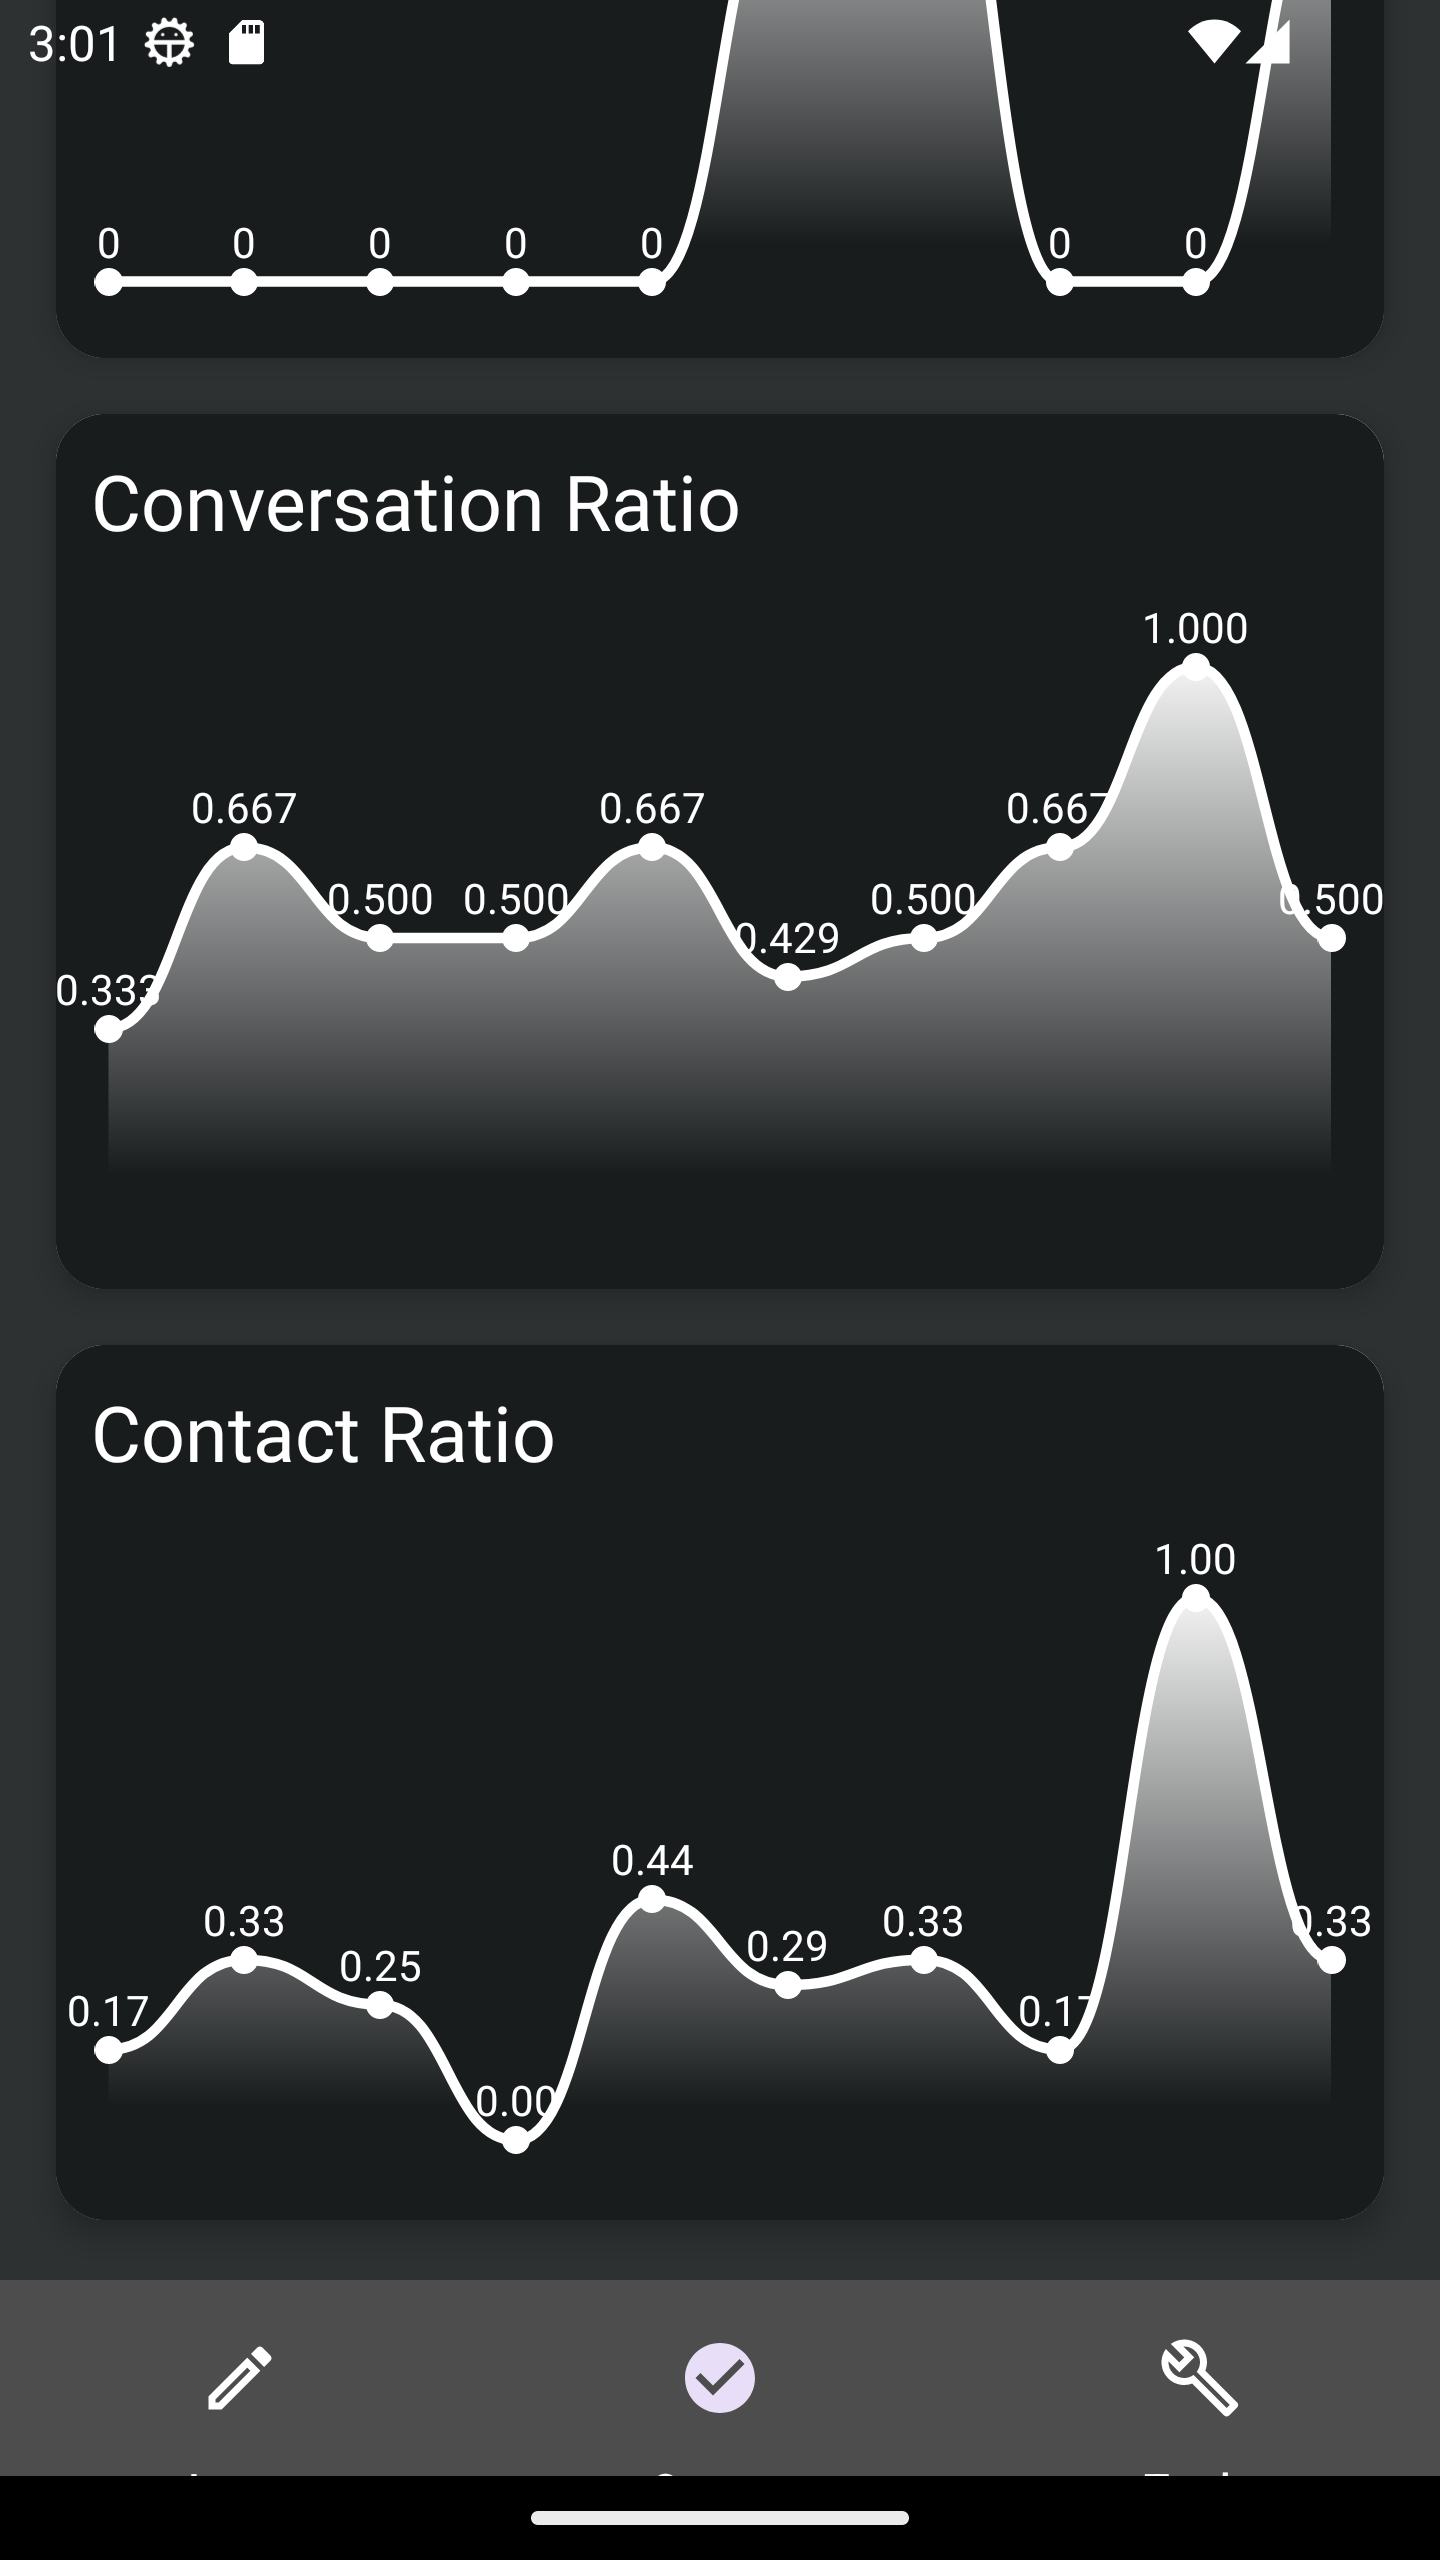
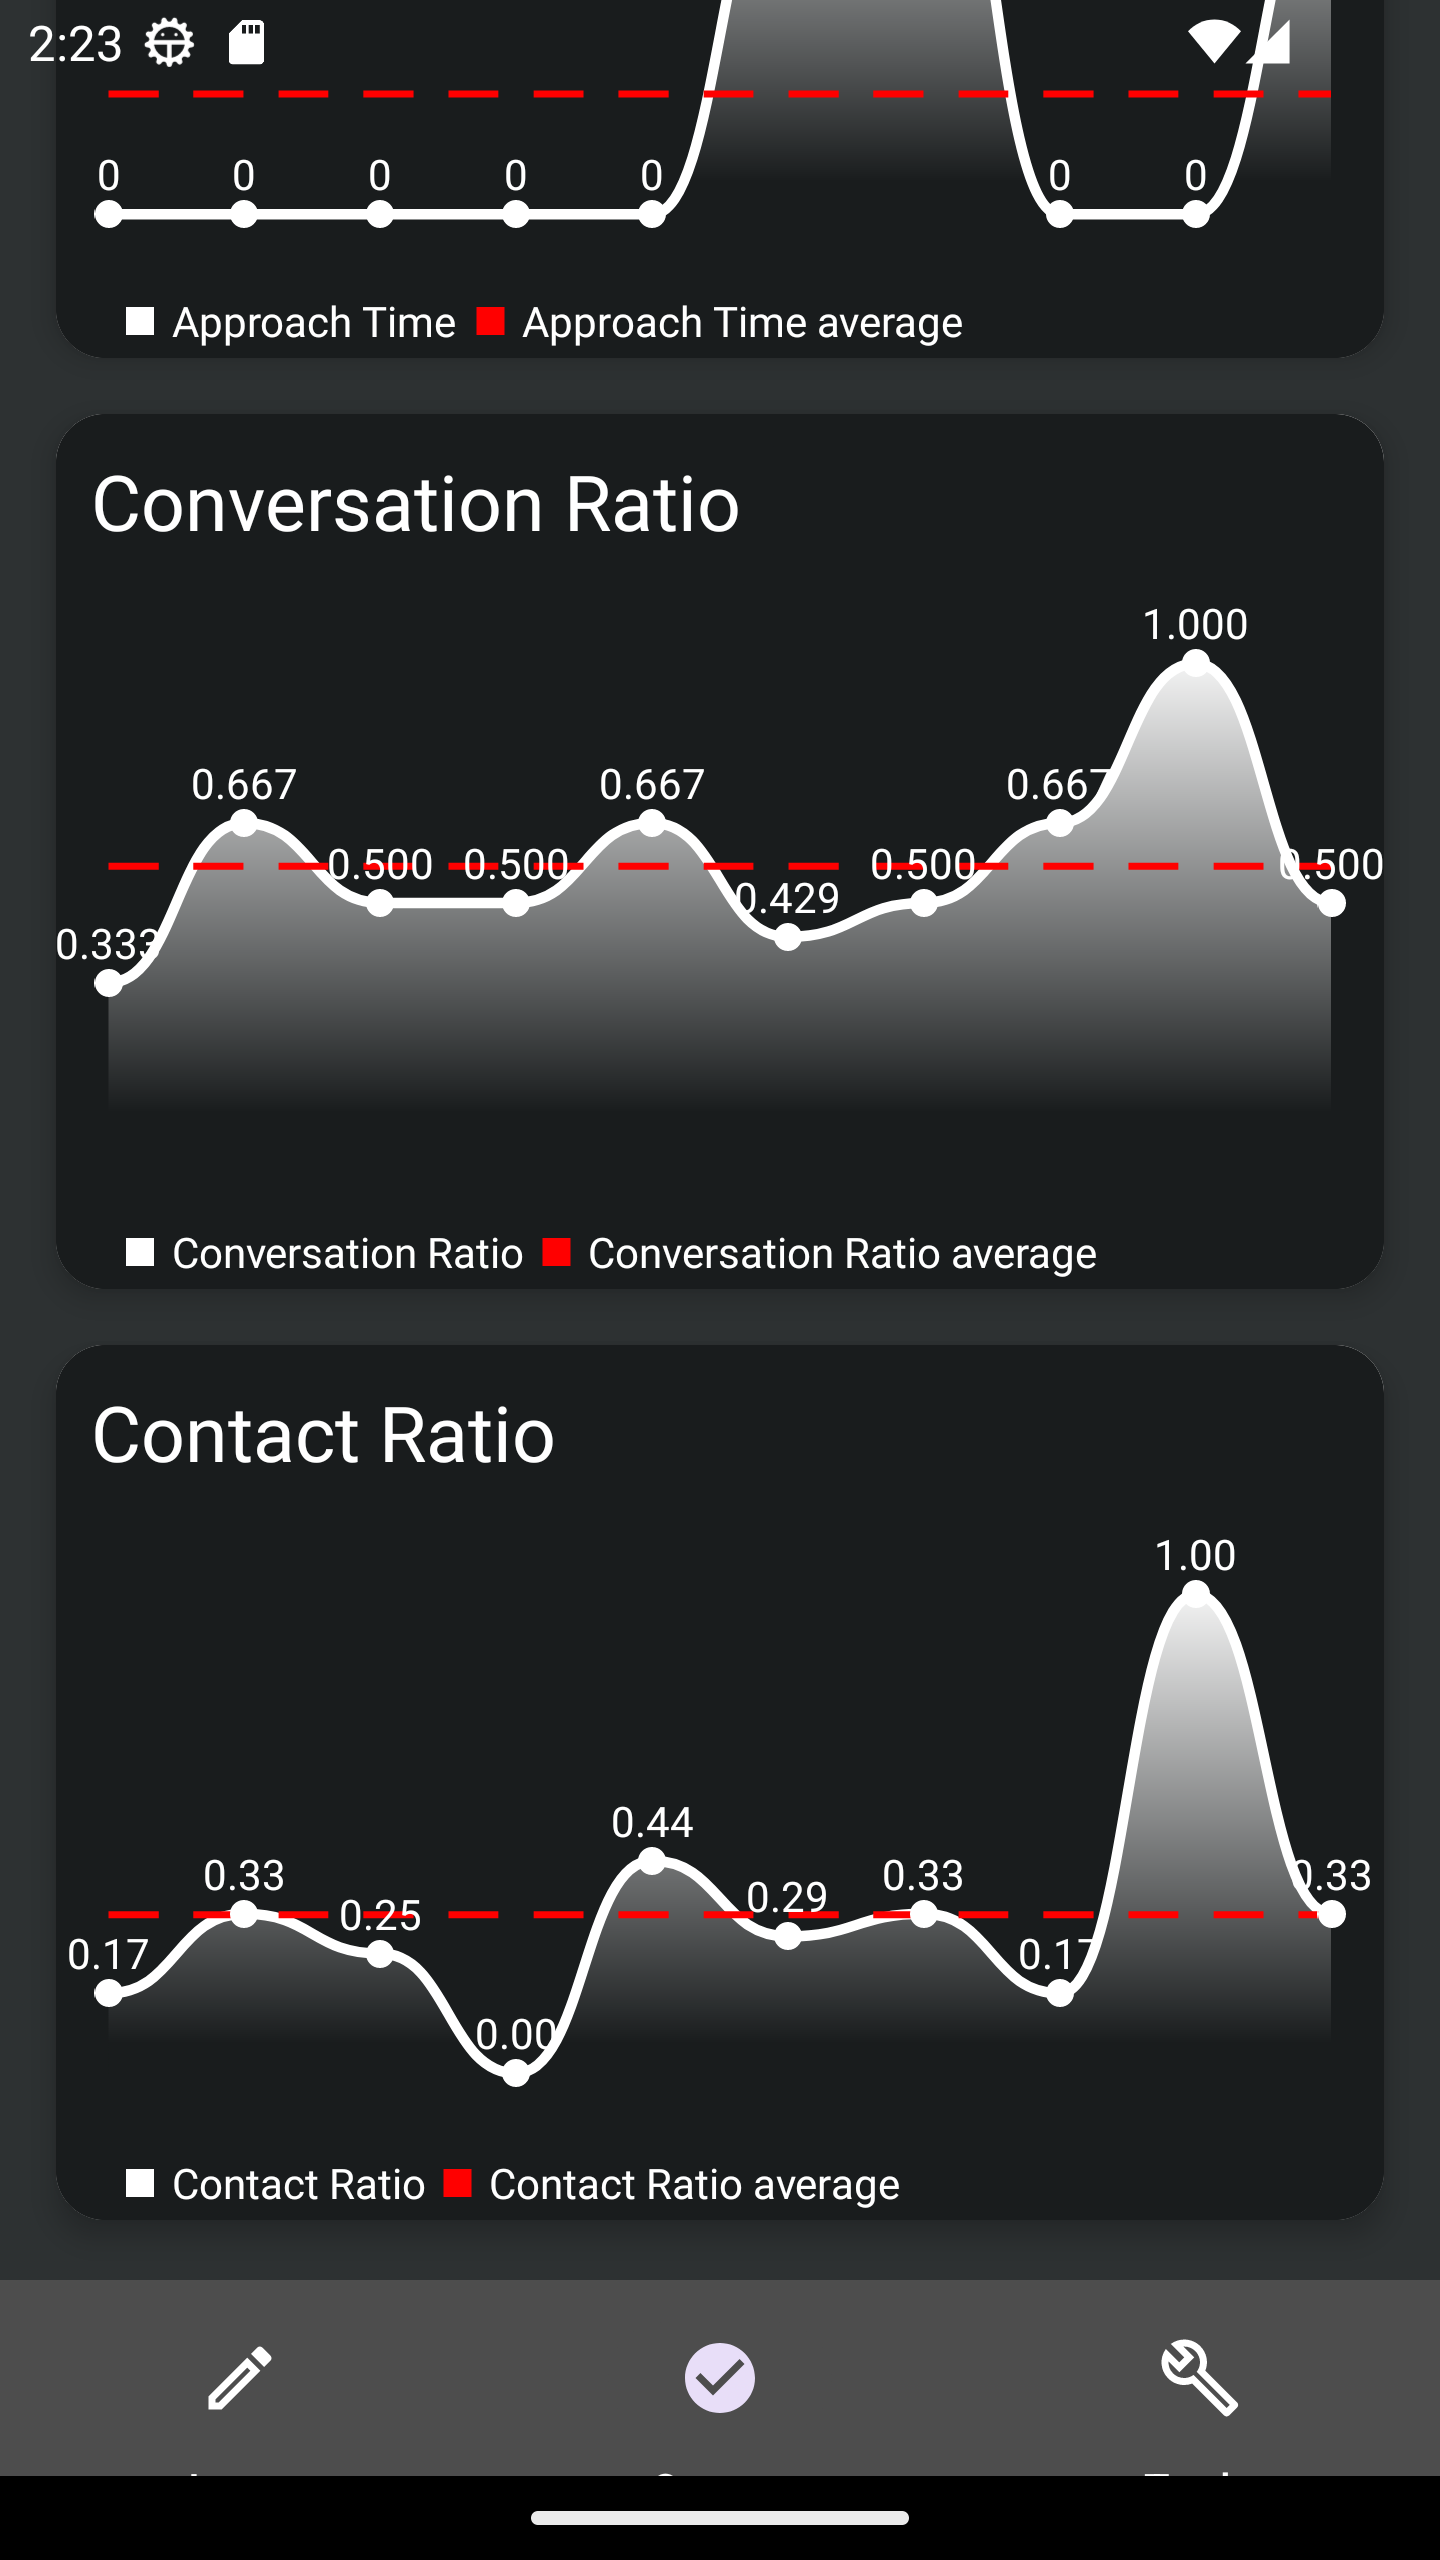
plotting average

diff --git a/README.md b/README.md
@@ -16,7 +16,7 @@ Everything is stored locally on your device.
 
 ## Features
 - [x] `Input screen` Session import with date, start hour, end hour, sets, conversations, contacts, sticking points
-- [x] `Output screen` Charts for sets, conversations, contacts, session performance index, approach time, conversation ratio and contact ratio
+- [x] `Output screen` Charts for sets, conversations, contacts, session performance index, approach time, conversation ratio, contact ratio and average values
 
 ## Previews
 
